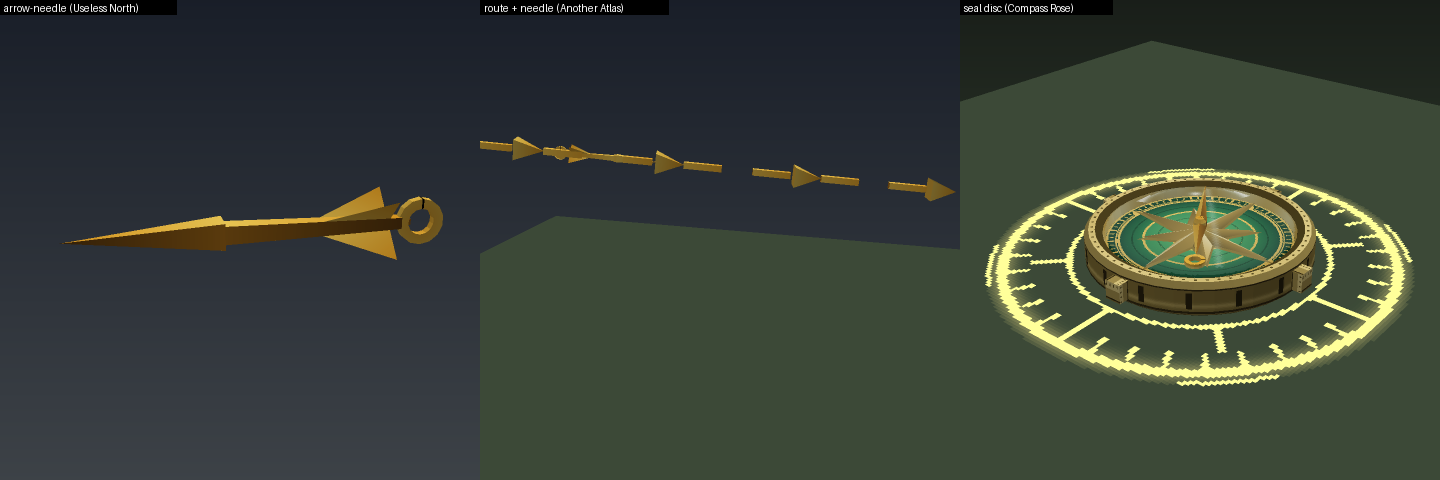
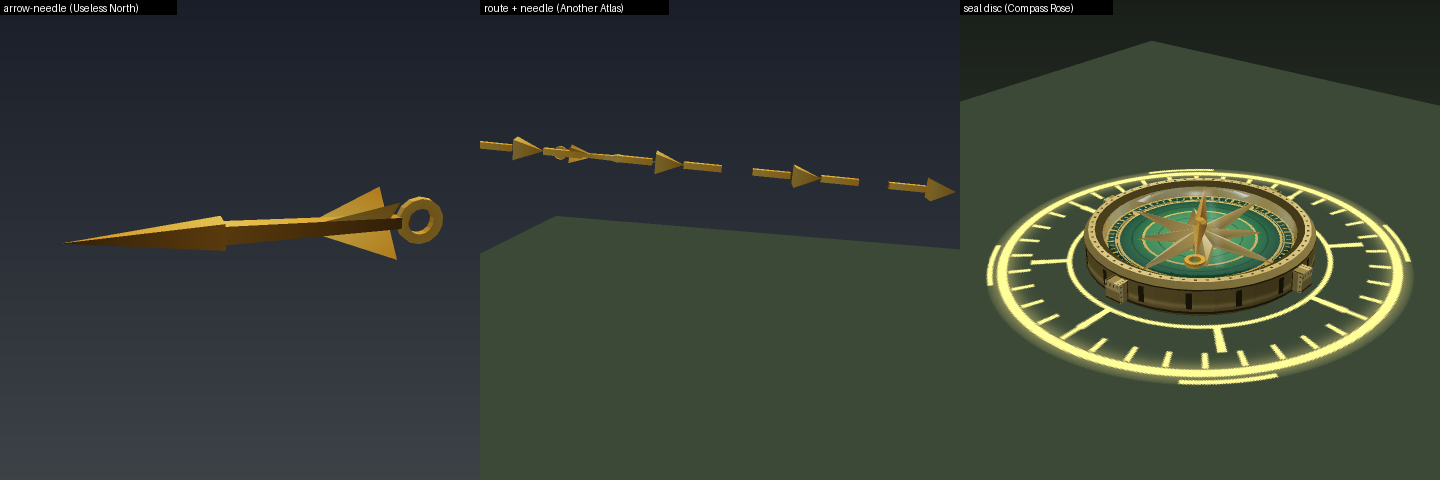
compass_3d: buffer-safe renderer passes, casting preview, doc, lang fragment
Claude-Session: https://claude.ai/code/session_0174t393fJ2EgwV92FW9SroE

diff --git a/src/main/java/com/newuniverse/nusmp/client/compass/CompassRender.java b/src/main/java/com/newuniverse/nusmp/client/compass/CompassRender.java
@@ -29,45 +29,45 @@ public final class CompassRender {
     private static final ResourceLocation[] LAYER_TEX = {RIM, FACE, STAR, NEEDLE, GLASS};
     public static final int FB = PropDraw.FULL_BRIGHT, GOLD = 0xFFC94A, PALE = 0xFFF0B0;
 
-    /** Writes mesh quads into vertex consumers (one per layer; a null one skips the layer) through the pose stack's current transform. */
+    /**
+     * Writes the quads of ONE layer into ONE vertex consumer through the pose stack's current transform. One consumer at a time on purpose: the shared buffer source ends the batch of the
+     * render type it held before when another type is asked for, so a consumer must be written to right after it was fetched and never kept for later.
+     */
     private static final class PoseSink implements CompassMesh.Sink {
         final PoseStack pose;
-        final VertexConsumer[] vc = new VertexConsumer[CompassMesh.LAYERS];
-        int argb = 0xFFFFFFFF, light;
+        VertexConsumer vc;
+        int only, argb = 0xFFFFFFFF, light;
 
-        PoseSink(PoseStack pose) { this.pose = pose; }
+        PoseSink(PoseStack pose, int light, int argb) { this.pose = pose; this.light = light; this.argb = argb; }
+
+        PoseSink use(VertexConsumer c, int layer) { this.vc = c; this.only = layer; return this; }
 
         @Override
         public void quad(int layer, float[] d, int o) {
-            VertexConsumer c = vc[layer];
-            if (c == null) return;
+            if (layer != only || vc == null) return;
             PoseStack.Pose p = pose.last();
             float nx = d[o + 20], ny = d[o + 21], nz = d[o + 22];
             int a = argb >>> 24, r = (argb >> 16) & 255, g = (argb >> 8) & 255, b = argb & 255;
             for (int k = 0; k < 4; k++) {
                 int q = o + k * 5;
-                c.addVertex(p, d[q], d[q + 1], d[q + 2]).setColor(r, g, b, a).setUv(d[q + 3], d[q + 4]).setOverlay(OverlayTexture.NO_OVERLAY).setLight(light).setNormal(p, nx, ny, nz);
+                vc.addVertex(p, d[q], d[q + 1], d[q + 2]).setColor(r, g, b, a).setUv(d[q + 3], d[q + 4]).setOverlay(OverlayTexture.NO_OVERLAY).setLight(light).setNormal(p, nx, ny, nz);
             }
         }
     }
 
     /**
      * Draws the compass at the pose's origin, model space radius 1 (scale the pose before). needleDeg turns the needle about the model's z axis (0 = north up). alpha 0..1 fades the whole thing
-     * (below 1 the solid passes are alpha blended); glow 0..2 scales the glow passes.
+     * (below 1 the solid passes are alpha blended); glow 0..2 scales the glow passes. Passes in order: rim, dial, rose, needle (solid), the glow passes (additive), the glass (translucent).
      */
     public static void compass(PoseStack pose, MultiBufferSource buf, int light, float needleDeg, float alpha, float glow, boolean needle, boolean glass) {
         if (alpha <= 0.01f) return;
         boolean blend = alpha < 0.98f;
-        int lit = SealDraw.lift(light, 7);
-        PoseSink s = new PoseSink(pose);
-        s.light = lit;
-        s.argb = SealDraw.argb(alpha, 0xFFFFFF);
-        for (int l = CompassMesh.RIM; l <= CompassMesh.NEEDLE; l++) s.vc[l] = buf.getBuffer(blend ? AuraRender.translucent(LAYER_TEX[l]) : AuraRender.cutout(LAYER_TEX[l]));
-        CompassMesh.body(s);
+        PoseSink s = new PoseSink(pose, SealDraw.lift(light, 7), SealDraw.argb(alpha, 0xFFFFFF));
+        for (int l = CompassMesh.RIM; l <= CompassMesh.STAR; l++) CompassMesh.body(s.use(buf.getBuffer(blend ? AuraRender.translucent(LAYER_TEX[l]) : AuraRender.cutout(LAYER_TEX[l])), l));
         if (needle) {
             pose.pushPose();
             pose.mulPose(Axis.ZP.rotationDegrees(needleDeg));
-            CompassMesh.needle(s);
+            CompassMesh.needle(s.use(buf.getBuffer(blend ? AuraRender.translucent(NEEDLE) : AuraRender.cutout(NEEDLE)), CompassMesh.NEEDLE));
             pose.popPose();
         }
         // glow passes: the dial's gold lines shine, the rose and the needle a little (full bright, additive)
@@ -75,63 +75,39 @@ public final class CompassRender {
         if (g > 0.02f) {
             pose.pushPose();
             pose.translate(0f, 0f, 0.004f);
-            PoseSink a = new PoseSink(pose);
-            a.light = FB;
-            a.argb = SealDraw.argb(Mth.clamp(0.85f * g, 0f, 1f), 0xFFFFFF);
-            a.vc[CompassMesh.FACE] = buf.getBuffer(SafeAdditive.additive(FACE_GLOW));
-            CompassMesh.body(a);
-            a.vc[CompassMesh.FACE] = null;
+            PoseSink a = new PoseSink(pose, FB, SealDraw.argb(Mth.clamp(0.85f * g, 0f, 1f), 0xFFFFFF));
+            CompassMesh.body(a.use(buf.getBuffer(SafeAdditive.additive(FACE_GLOW)), CompassMesh.FACE));
             a.argb = SealDraw.argb(Mth.clamp(0.20f * g, 0f, 1f), 0xFFFFFF);
-            a.vc[CompassMesh.STAR] = buf.getBuffer(SafeAdditive.additive(STAR));
-            a.vc[CompassMesh.RIM] = null;
-            a.vc[CompassMesh.FACE] = null;
-            CompassMesh.body(a);
+            CompassMesh.body(a.use(buf.getBuffer(SafeAdditive.additive(STAR)), CompassMesh.STAR));
             if (needle) {
                 a.argb = SealDraw.argb(Mth.clamp(0.28f * g, 0f, 1f), 0xFFFFFF);
-                a.vc[CompassMesh.NEEDLE] = buf.getBuffer(SafeAdditive.additive(NEEDLE));
                 pose.mulPose(Axis.ZP.rotationDegrees(needleDeg));
-                CompassMesh.needle(a);
+                CompassMesh.needle(a.use(buf.getBuffer(SafeAdditive.additive(NEEDLE)), CompassMesh.NEEDLE));
             }
             pose.popPose();
         }
-        if (glass) {
-            PoseSink t = new PoseSink(pose);
-            t.light = lit;
-            t.argb = SealDraw.argb(alpha, 0xFFFFFF);
-            t.vc[CompassMesh.GLASS] = buf.getBuffer(AuraRender.translucent(GLASS));
-            CompassMesh.glass(t);
-        }
+        if (glass) CompassMesh.glass(new PoseSink(pose, SealDraw.lift(light, 7), SealDraw.argb(alpha, 0xFFFFFF)).use(buf.getBuffer(AuraRender.translucent(GLASS)), CompassMesh.GLASS));
     }
 
     /** A flying arrow-needle along +z at the pose's origin (model units; scale the pose): solid, plus a soft additive pass of the same shape. */
     public static void arrow(PoseStack pose, MultiBufferSource buf, int light, float alpha, float glow) {
         if (alpha <= 0.01f) return;
-        PoseSink s = new PoseSink(pose);
-        s.light = SealDraw.lift(light, 9);
-        s.argb = SealDraw.argb(alpha, 0xFFFFFF);
-        s.vc[CompassMesh.NEEDLE] = buf.getBuffer(alpha < 0.98f ? AuraRender.translucent(NEEDLE) : AuraRender.cutout(NEEDLE));
-        CompassMesh.arrow(s);
+        PoseSink s = new PoseSink(pose, SealDraw.lift(light, 9), SealDraw.argb(alpha, 0xFFFFFF));
+        CompassMesh.arrow(s.use(buf.getBuffer(alpha < 0.98f ? AuraRender.translucent(NEEDLE) : AuraRender.cutout(NEEDLE)), CompassMesh.NEEDLE));
         if (glow > 0.02f) {
-            PoseSink a = new PoseSink(pose);
-            a.light = FB;
-            a.argb = SealDraw.argb(Mth.clamp(0.35f * glow * alpha, 0f, 1f), 0xFFFFFF);
-            a.vc[CompassMesh.NEEDLE] = buf.getBuffer(SafeAdditive.additive(NEEDLE));
-            CompassMesh.arrow(a);
+            PoseSink a = new PoseSink(pose, FB, SealDraw.argb(Mth.clamp(0.35f * glow * alpha, 0f, 1f), 0xFFFFFF));
+            CompassMesh.arrow(a.use(buf.getBuffer(SafeAdditive.additive(NEEDLE)), CompassMesh.NEEDLE));
         }
     }
 
     /** A unit route segment ({@link CompassMesh#bar}) or arrow head ({@link CompassMesh#chevron}) at the pose, with a faint additive twin. */
     public static void routePiece(PoseStack pose, MultiBufferSource buf, boolean chevron, float alpha) {
         if (alpha <= 0.01f) return;
-        PoseSink s = new PoseSink(pose);
-        s.light = FB;
-        s.argb = SealDraw.argb(alpha, 0xFFFFFF);
-        s.vc[CompassMesh.NEEDLE] = buf.getBuffer(AuraRender.translucent(NEEDLE));
+        PoseSink s = new PoseSink(pose, FB, SealDraw.argb(alpha, 0xFFFFFF));
+        s.use(buf.getBuffer(AuraRender.translucent(NEEDLE)), CompassMesh.NEEDLE);
         if (chevron) CompassMesh.chevron(s); else CompassMesh.bar(s);
-        PoseSink a = new PoseSink(pose);
-        a.light = FB;
-        a.argb = SealDraw.argb(0.4f * alpha, 0xFFFFFF);
-        a.vc[CompassMesh.NEEDLE] = buf.getBuffer(SafeAdditive.additive(NEEDLE));
+        PoseSink a = new PoseSink(pose, FB, SealDraw.argb(0.4f * alpha, 0xFFFFFF));
+        a.use(buf.getBuffer(SafeAdditive.additive(NEEDLE)), CompassMesh.NEEDLE);
         if (chevron) CompassMesh.chevron(a); else CompassMesh.bar(a);
     }
 

diff --git a/tools/compass/preview_compass3d.py b/tools/compass/preview_compass3d.py
@@ -319,7 +319,6 @@ def spells_scene(parts):
     c = Canvas(W, H, ((0.10, 0.12, 0.16), (0.24, 0.26, 0.28)))
     cam = look((2.6, 1.2, 2.4), (0, 0, 0.1), 30)
     ps = part_prims(parts, "arrow", T(0, 0, -0.1) @ RY(-30) @ S(0.9))
-    ps.append(card((0, 0, 0), (0.0, 0.0, 0.0), (0.0, 0.0, 0.0), "glint", (1, 1, 1), 0))
     c.draw(ps, cam)
     tiles.append(label(c.finish(), "arrow-needle (Useless North)"))
     # 2: the route: bars and chevrons from the compass to a target
@@ -354,12 +353,92 @@ def spells_scene(parts):
     return sheet
 
 
+def needle_angle(d, yaw_deg):
+    """Same maths as CompassRules.needleAngle: the angle about the model's z that turns the needle (north up at 0) toward the world direction d."""
+    a = math.radians(yaw_deg)
+    lx = d[0] * math.cos(a) + d[2] * math.sin(a)
+    return math.degrees(math.atan2(-lx, d[1]))
+
+
+def foe_prims(at, yaw=180.0):
+    ps = []
+    skin, cloth, dark = (0.55, 0.62, 0.50), (0.42, 0.18, 0.2), (0.14, 0.12, 0.16)
+    x, y, z = at
+    ps.append(box_prim((x, y + 1.62, z), (0.25, 0.25, 0.25), skin, yaw))
+    ps.append(box_prim((x, y + 1.12, z), (0.25, 0.375, 0.125), cloth, yaw))
+    ps.append(box_prim((x - 0.375, y + 1.12, z), (0.125, 0.375, 0.125), skin, yaw))
+    ps.append(box_prim((x + 0.375, y + 1.12, z), (0.125, 0.375, 0.125), skin, yaw))
+    ps.append(box_prim((x - 0.125, y + 0.375, z), (0.125, 0.375, 0.125), dark, yaw))
+    ps.append(box_prim((x + 0.125, y + 0.375, z), (0.125, 0.375, 0.125), dark, yaw))
+    return ps
+
+
+def seal_prims(parts, feet, t, size=0.5):
+    m = T(feet[0], feet[1] + 0.16, feet[2]) @ RX(-90) @ RZ(t * 5) @ S(size)
+    ps = part_prims(parts, "rim", m) + part_prims(parts, "face", m) + part_prims(parts, "star", m) + part_prims(parts, "needle", m @ RZ(t * 11))
+    ps.append(card((feet[0], feet[1] + 0.05, feet[2]), (1.15 * math.cos(t * 0.05), 0, 1.15 * math.sin(t * 0.05)), (-1.15 * math.sin(t * 0.05), 0, 1.15 * math.cos(t * 0.05)), "seal_ring", (1, 1, 1), 0.9))
+    ps += part_prims(parts, "glass", m, mode="alpha")
+    return ps
+
+
+def arrow_prims(parts, pos, direction, size=0.5, roll=0.0):
+    d = np.array(direction, np.float32); d = d / np.linalg.norm(d)
+    yaw = math.degrees(math.atan2(d[0], d[2])); pitch = -math.degrees(math.asin(d[1]))
+    return part_prims(parts, "arrow", T(*pos) @ RY(yaw) @ RX(pitch) @ RZ(roll) @ S(size))
+
+
+def casting_scene(parts):
+    """Useless North and Compass Rose: the compass, its needle on the foe, arrow-needles in flight, the route, the seal discs."""
+    tiles = []
+    # --- Useless North
+    c = Canvas(W * 2, H, ((0.14, 0.18, 0.25), (0.34, 0.42, 0.34)))
+    caster_at = np.array([0, 0, 0], np.float32)
+    foe_at = np.array([-1.5, 0, 7.5], np.float32)
+    right = np.array([-1, 0, 0], np.float32)
+    cpos = caster_at + np.array([0, 1.55, 0], np.float32) + right * 1.25 + np.array([0, 0, -0.35], np.float32)
+    yaw_c = 25.0
+    foe_c = foe_at + np.array([0, 1.1, 0], np.float32)
+    ang = needle_angle(foe_c - cpos, yaw_c)
+    m = T(*cpos) @ RY(-yaw_c) @ S(0.72)
+    cam = look((-8.0, 2.8, 0.2), (-1.0, 1.3, 4.6), 50)
+    ps = [box_prim((0, -0.05, 3), (7, 0.05, 9), (0.26, 0.32, 0.24))] + caster_prims(0.0) + foe_prims(foe_at)
+    ps += compass_prims(parts, m, ang, t=14, cam_right=(cam[2], cam[3]), eye=cam[0])
+    dirv = foe_c - cpos
+    n = np.linalg.norm(dirv)
+    for i, f in enumerate((0.16, 0.37, 0.62)):
+        pos = cpos + dirv * f + np.array([0.0, 0.25 * math.sin(f * 9), 0.0], np.float32)
+        ps += arrow_prims(parts, pos, dirv, 0.5, roll=i * 50)
+    ps += seal_prims(parts, foe_at, 14)
+    c.draw(ps, cam)
+    img = label(c.finish(), "Useless North: needle on the foe, 3 arrow-needles in flight, seal disc at the foe")
+    tiles.append(img)
+    # --- Compass Rose
+    c = Canvas(W * 2, H, ((0.10, 0.12, 0.18), (0.26, 0.34, 0.30)))
+    foes = [np.array([-4.0, 0, 6.0], np.float32), np.array([0.0, 0, 8.0], np.float32), np.array([3.8, 0, 5.5], np.float32), np.array([-1.5, 0, 4.0], np.float32)]
+    cam = look((-9.5, 4.0, 1.0), (0.0, 1.0, 5.4), 52)
+    ps = [box_prim((0, -0.05, 4), (9, 0.05, 9), (0.26, 0.32, 0.24))] + caster_prims(0.0)
+    m = T(*cpos) @ RY(-yaw_c) @ S(0.72 * 1.12)
+    ps += compass_prims(parts, m, 200, t=20, cam_right=(cam[2], cam[3]), eye=cam[0])
+    for k, f in enumerate(foes):
+        ps += foe_prims(f)
+        ps += seal_prims(parts, f, 20 + k * 3)
+        fc = f + np.array([0, 1.1, 0], np.float32)
+        d2 = fc - cpos
+        ps += arrow_prims(parts, cpos + d2 * (0.3 + 0.12 * k), d2, 0.5, roll=k * 70)
+    c.draw(ps, cam)
+    tiles.append(label(c.finish(), "Compass Rose: a seal disc to each foe, needles out of the one compass"))
+    sheet = Image.new("RGB", (W * 2, H * 2))
+    for i, t in enumerate(tiles):
+        sheet.paste(t, (0, i * H))
+    return sheet
+
+
 def main():
     _flat_tex()
     parts = build_dump()
     print({k: len(v) for k, v in parts.items()}, "quads")
     os.makedirs(OUT, exist_ok=True)
-    for name, fn in (("compass_views", views), ("caster", caster_scene), ("spells", spells_scene)):
+    for name, fn in (("compass_views", views), ("caster", caster_scene), ("spells", spells_scene), ("casting", casting_scene)):
         img = fn(parts)
         img.save(os.path.join(OUT, name + ".png"), optimize=True)
         print("wrote", os.path.join(OUT, name + ".png"))

diff --git a/tools/compass/gen_compass3d_textures.py b/tools/compass/gen_compass3d_textures.py
@@ -216,8 +216,8 @@ def glass():
     a = 22 + 18 * smooth((r - 0.6) / 0.4)                                   # a faint tint, a little more toward the edge
     # a bright crescent highlight upper left and a small specular dot
     cres = np.exp(-((np.sqrt((x + 0.30) ** 2 + (y - 0.30) ** 2) - 0.62) / 0.07) ** 2) * ((x < 0) & (y > 0) & (r < 0.92))
-    dot = np.exp(-(((x + 0.46) ** 2 + (y - 0.50) ** 2) / 0.004))
-    stripe = np.exp(-(((x + y * 0.9 - 0.18) / 0.05) ** 2)) * (r < 0.9) * 0.35         # a soft diagonal sheen
+    dot = np.exp(-(((x + 0.46) ** 2 + (y - 0.50) ** 2) / 0.012)) * 0.8
+    stripe = np.exp(-(((x + y * 0.9 - 0.18) / 0.07) ** 2)) * (r < 0.9) * 0.22         # a soft diagonal sheen
     k = np.clip(cres * 0.85 + dot + stripe, 0, 1)
     img[..., :3] = mix(base, np.array([255, 255, 255], np.float32), k)
     img[..., 3] = np.where(r <= 1.0, np.clip(a + 190 * k, 0, 235), 0)

diff --git a/docs/magic/compass_3d.md b/docs/magic/compass_3d.md
@@ -1,0 +1,87 @@
+# Compass Magic in 3D: one floating compass, every spell comes out of it
+
+Owner request: "Compass Magic should just be a single 3D model compass floating like the anime and all the spells come out of it as 3D models" (reference: the Black Clover wiki's Compass Magic page and the anime's
+compasses: big flat discs floating beside the caster, a thick olive-bronze rim, green concentric rings with a pale cream and gold 8 point compass rose, a thin gold needle with a small ring at its tail, a glassy glint
+on the rim, a spiky yellow aura behind; the grimoire cover is a green book with a gold-rimmed compass rose).
+
+Nothing here has been run in a game (see "Not verified"). Everything below was built and checked from files, a type-check against API stubs, pure JUnit tests and a headless re-implementation of the renderer.
+
+## What it is now
+
+* **One compass per caster.** A real 3D model (`compass3d.CompassMesh`, 576 + 94 + 128 quads: rim, dial, rose, needle, glass), prop `COMPASS_1`. Thick bronze rim with a back dome, bevels, 16 engraved notches, a bright
+  front lip, a gold glass seat and four lugs; a recessed green dial with gold ring lines and degree ticks; a raised 8 point cream and gold rose (every point two facets, lit from the upper left, an outline underlay);
+  a gold needle (shaft with a ridge, hub cap, a small ring at the tail) that is a spring: it swings to the charted foe (or to where the caster looks) with a little overshoot; a glass dome with a crescent highlight.
+  Drawn with a bob, a slow sway and a slight roll, popped in over 10 ticks, faded out over 14.
+  * Glow passes through `SafeAdditive` only: the dial's gold lines and the rose and needle (full bright), a spiky yellow aura card that always sits on the far side of the compass from the camera and turns slowly,
+    a glint (four point flare) that runs round the rim. Custom particles (`particle/fx`, theme `magic.COMPASS`, tinted gold, through `Fx` and its budgets) at its appearance and end and from its needles.
+  * It floats at the caster's right, a little behind and up (`CompassRules.SIDE/UP/BACK`), turned 25 degrees outward, follows with an ease. It appears when a Compass page is cast or held (charging), stays 8 seconds
+    after the last one (the long pages keep it for their whole effect) and fades. Never more than one per player.
+  * Modes (set by the page, `CompassRules.MODE_*`): attack (Useless North, Compass Rose: brighter glow and aura), guard (Willful Compass: two turning field rings round it), chart (Another Atlas: stronger aura, a slow
+    outer ring).
+* **Every spell comes out of it as 3D models** (`CompassKit`, prop `COMPASS_2`, variants in the low byte of the param):
+
+| Spell (page) | What comes out of the compass | Server work |
+|---|---|---|
+| Useless North (starter) | 3 to 5+ **arrow-needles** (gold shaft, four fins, a ring at the tail, rolling about their axis) leave the compass and ride the page's own homing bolts to the foe; a **seal disc** (a small compass lying flat) flies out and turns at the foe's feet | the page's `SpellRuntime.bolt` is unchanged, `CompassKit.bolt` adds the prop that follows it |
+| Willful Compass (mid, 10 s guard) | the compass guards (field rings); each shot that is bent back leaves a **turn disc** (a small compass facing the camera, its needle swinging at the shooter) | the page's zone is unchanged, `CompassKit.turnDisc` per bent shot |
+| Another Atlas (mid, 15 s chart) | a **route** of marching 3D dashes and arrow heads from the compass to the charted foe, a seal disc turning at the foe's feet, an arrow-needle every 1.5 s | `CompassKit.route`, `seal`, `bolt` |
+| Compass Rose (signature) | a **seal disc** flies out to each foe within 20 blocks (up to 10), two arrow-needles per foe; the compass spins up | `CompassKit.seal`, `bolt` |
+
+  Gameplay is exactly the old one: page ids, order, costs, cooldowns, masteries, damage, speeds, radii, targeting, the redirect rule and the mark are untouched. The only gameplay-adjacent change is where a needle
+  starts: the compass centre instead of a point on the old flat arc behind the caster (same neighbourhood, 1 to 2 blocks).
+* **Caps per player** (`CompassRules`): 24 living arrow-needles, 10 seal discs, 6 turn discs, 2 routes (a new route replaces the oldest), one compass. Seals, turn discs also take the shared effect budget
+  (`PerfBudgets.effectPacket`). A prop that cannot be spawned just means that effect has no model that time; the page still works.
+* **Config** `visual.compass3d` (client, `config/nusmp-compass3d-client.toml`, default on): off draws the old flat effects and none of the 3D props. `visual.compass3d_aura` (default on) is the aura and the glint.
+  The server sends both sets (the old `VfxSpawn` payloads as before, the props as entities); the client chooses. Looks only.
+
+## NEW / REPLACED / KEPT
+
+| | |
+|---|---|
+| NEW | `compass3d/CompassMesh` (the model), `CompassRules` (pure rules), `CompassKit` (server: one compass, arrow-needles, seals, turn discs, routes, caps), `CompassVisualConfig`, `CompassSelfTests`; `client/compass/CompassRender`; the filled `client/prop/CompassPropPainter` and `prop/CompassProps` (they were stubs); textures `entity/compass3d/{rim,face,face_glow,star,needle,glass,aura,glint,seal_ring}.png` and `tools/compass/*` (generator, layout, mesh dump, preview); tests; this page; the lang fragment. |
+| REPLACED (visual only, by default) | The flat Compass look: `COMPASS_ARRAY` (several brass compasses in an arc), `COMPASS_NEEDLE` (a flat needle) and `COMPASS_LOCK` (a flat sigil) are no longer drawn while `visual.compass3d` is on; the one 3D compass, the arrow-needles, the seal discs, the route and the turn disc are drawn instead. Where a needle starts (the compass, not the old arc). |
+| KEPT | Every page (ids, order, cost, cooldown, damage, mastery bits), `CompassExt`, `COMPASS_FX1..3`, `CompassLayer`, `CompassAura`, `behind()`, the old flat effect code in `SlashCompassMercuryLayer` (still drawn when the config is off), the old textures `compass_rim/dial/needle/glass`, the grimoire cover, the Time Magic VFX (untouched). |
+
+## Where things are
+
+* Model: `src/main/java/com/newuniverse/nusmp/compass3d/CompassMesh.java` (plain geometry, no Minecraft class; quads of 23 floats: four corners x y z u v, then the normal; layers RIM, FACE, STAR, NEEDLE, GLASS).
+  The numbers it shares with the texture generator are in `tools/compass/compass3d_layout.json` (a test checks they agree).
+* Textures: `python3 -B tools/compass/gen_compass3d_textures.py` (deterministic, seeded; every additive texture has no colour under a transparent texel).
+* Preview without the game: `python3 -B tools/compass/preview_compass3d.py` (compiles `CompassMesh` with `tools/compass/MeshDump.java`, rasterises the real quads with a z-buffer) writes `docs/previews/compass_3d/`:
+  `compass_views.png` (front, three quarter, side, back), `caster.png` (beside a caster, three views), `spells.png` (arrow-needle, route, seal disc), `casting.png` (Useless North and Compass Rose with a caster, foes, needles in flight and seal discs).
+* Server: `compass3d/CompassKit` (behaviours registered by `prop/CompassProps.init()`), rules `compass3d/CompassRules`. Client: `client/prop/CompassPropPainter`, `client/compass/CompassRender`.
+* Edits to existing files (all additions): `book/CompassBook` (calls to `CompassKit` in the four pages, `onHeld`, the needle helper; `behind()` kept), `vfx/client/layer/SlashCompassMercuryLayer` (an early return for the three flat shapes while the config is on),
+  `NUSMP` (one `registerConfig` line), `prop/CompassProps` and `client/prop/CompassPropPainter` (filled in; they were stubs).
+
+## Rule 9 (server and multiplayer)
+
+All state and decisions are on the server (`CompassKit`); the client only draws (`CompassPropPainter` reads the synced prop word, the synced target and the synced rotation). State is per player UUID in small maps
+cleaned when a prop ends or is found removed; a bolt that was dissolved by another spell ends its model after two still ticks. No static "current player", no `Minecraft.getInstance()` outside `client/`, no new packet (props are the existing entity), props
+are tracked to nearby players by the existing entity tracking (12 chunks), particles go through `Fx` and `PerfBudgets`. The config is a CLIENT config (looks only).
+Self-test (CI server smoke test): `magic.compass_3d` (mesh well formed, prop word round trip, on a real level a stand-in caster gets exactly one compass however often it is asked, the four caps hold, everything is gone after `forget`).
+
+## Tests
+
+`compass3d/CompassRulesTest` (prop word, position, needle angle, swing, fades, caps, route, seal flight), `CompassMeshTest` (layout shared with the generator, sane quads, stacking, outward normals, budgets),
+`CompassAssetsTest` (textures exist with the layout's sizes, no colour under alpha 0, no black seam texels, the dial is green and the rose cream and gold, the renderer names only existing textures, the lang fragment). The existing
+`ServerSafetyTest`, `SafeAdditiveSourceScanTest`, `SafeAdditiveTextureScanTest`, `ScreenBlurGuardTest`, `SquareBugAssetsTest`, `NoHungerDrainTest` still pass in the shim.
+
+## Canon
+
+The repo's own record of the wiki (the `CompassBook` header, written for 0.45) names: Useless North (offensive: the compasses change the trajectory of the user's attacks so they lock on and follow a target "much like a compass
+locks on to magnetic north"), Willful Compass (defensive: bends incoming attacks back), Another Atlas (supplementary: marks a target's magicule signature). Compass Rose is the mod's appended signature. Letoile Becquerel and Kivn are the named users there.
+The look follows the owner's description of the anime (above).
+
+## Not verified (nothing could be run)
+
+* **No frame of the game was seen.** The preview PNGs are a re-implementation of the renderer (z-buffer, nearest sampling, simple lighting, additive and alpha blends); the real lighting, blending order and depth behaviour can differ.
+* **The Black Clover wiki could not be reached** from the build environment (the proxy refused the host), so the spell list is the one already in the repo (three wiki pages plus Compass Rose); other Compass spells on the wiki page, if any, were not read and have no 3D model.
+* **Render-thread behaviour is reasoned, not run:** each pass fetches its buffer and writes it at once (the shared buffer source ends the previous batch when another render type is asked for); entity render types with the custom textures; the spring of the needle; the aura card side switch;
+  the translucent fade of the solid passes; the glow offsets (z-fighting at distance). The type-check is against API stubs.
+* **Needle model scale in flight and the route** (arrow 0.5 of model size, dashes 0.07 wide) were chosen from the previews; how they read at 20 blocks in a real scene was not seen.
+* **First person:** the compass floats about 1.3 blocks to the right and slightly behind; whether it is in the way or visible enough was not checked.
+* **Performance** was not measured. One compass is 700 to 900 quads drawn through the pose stack each frame with no cache; the cap is one per caster, but many casters in one place were not tried.
+* **Network:** the server still sends the old flat `VfxSpawn` payloads next to the props (the client skips them when `visual.compass3d` is on); this doubles those effect packets for the Compass pages (they were never many).
+* **The compass appears on a cast or a hold,** not merely when the grimoire is selected; if "the Compass book is active" should also mean selected, that needs a hook that was not added.
+* A bolt dissolved by another spell (`SpellRuntime.dissolveBolts`) leaves its arrow-needle model for two ticks before it ends; a dimension change drops the compass and the next cast spawns a new one.
+* `MobEffectInstance is abstract` in the type-check is a stub artefact in the unchanged `anotherAtlas` line.
